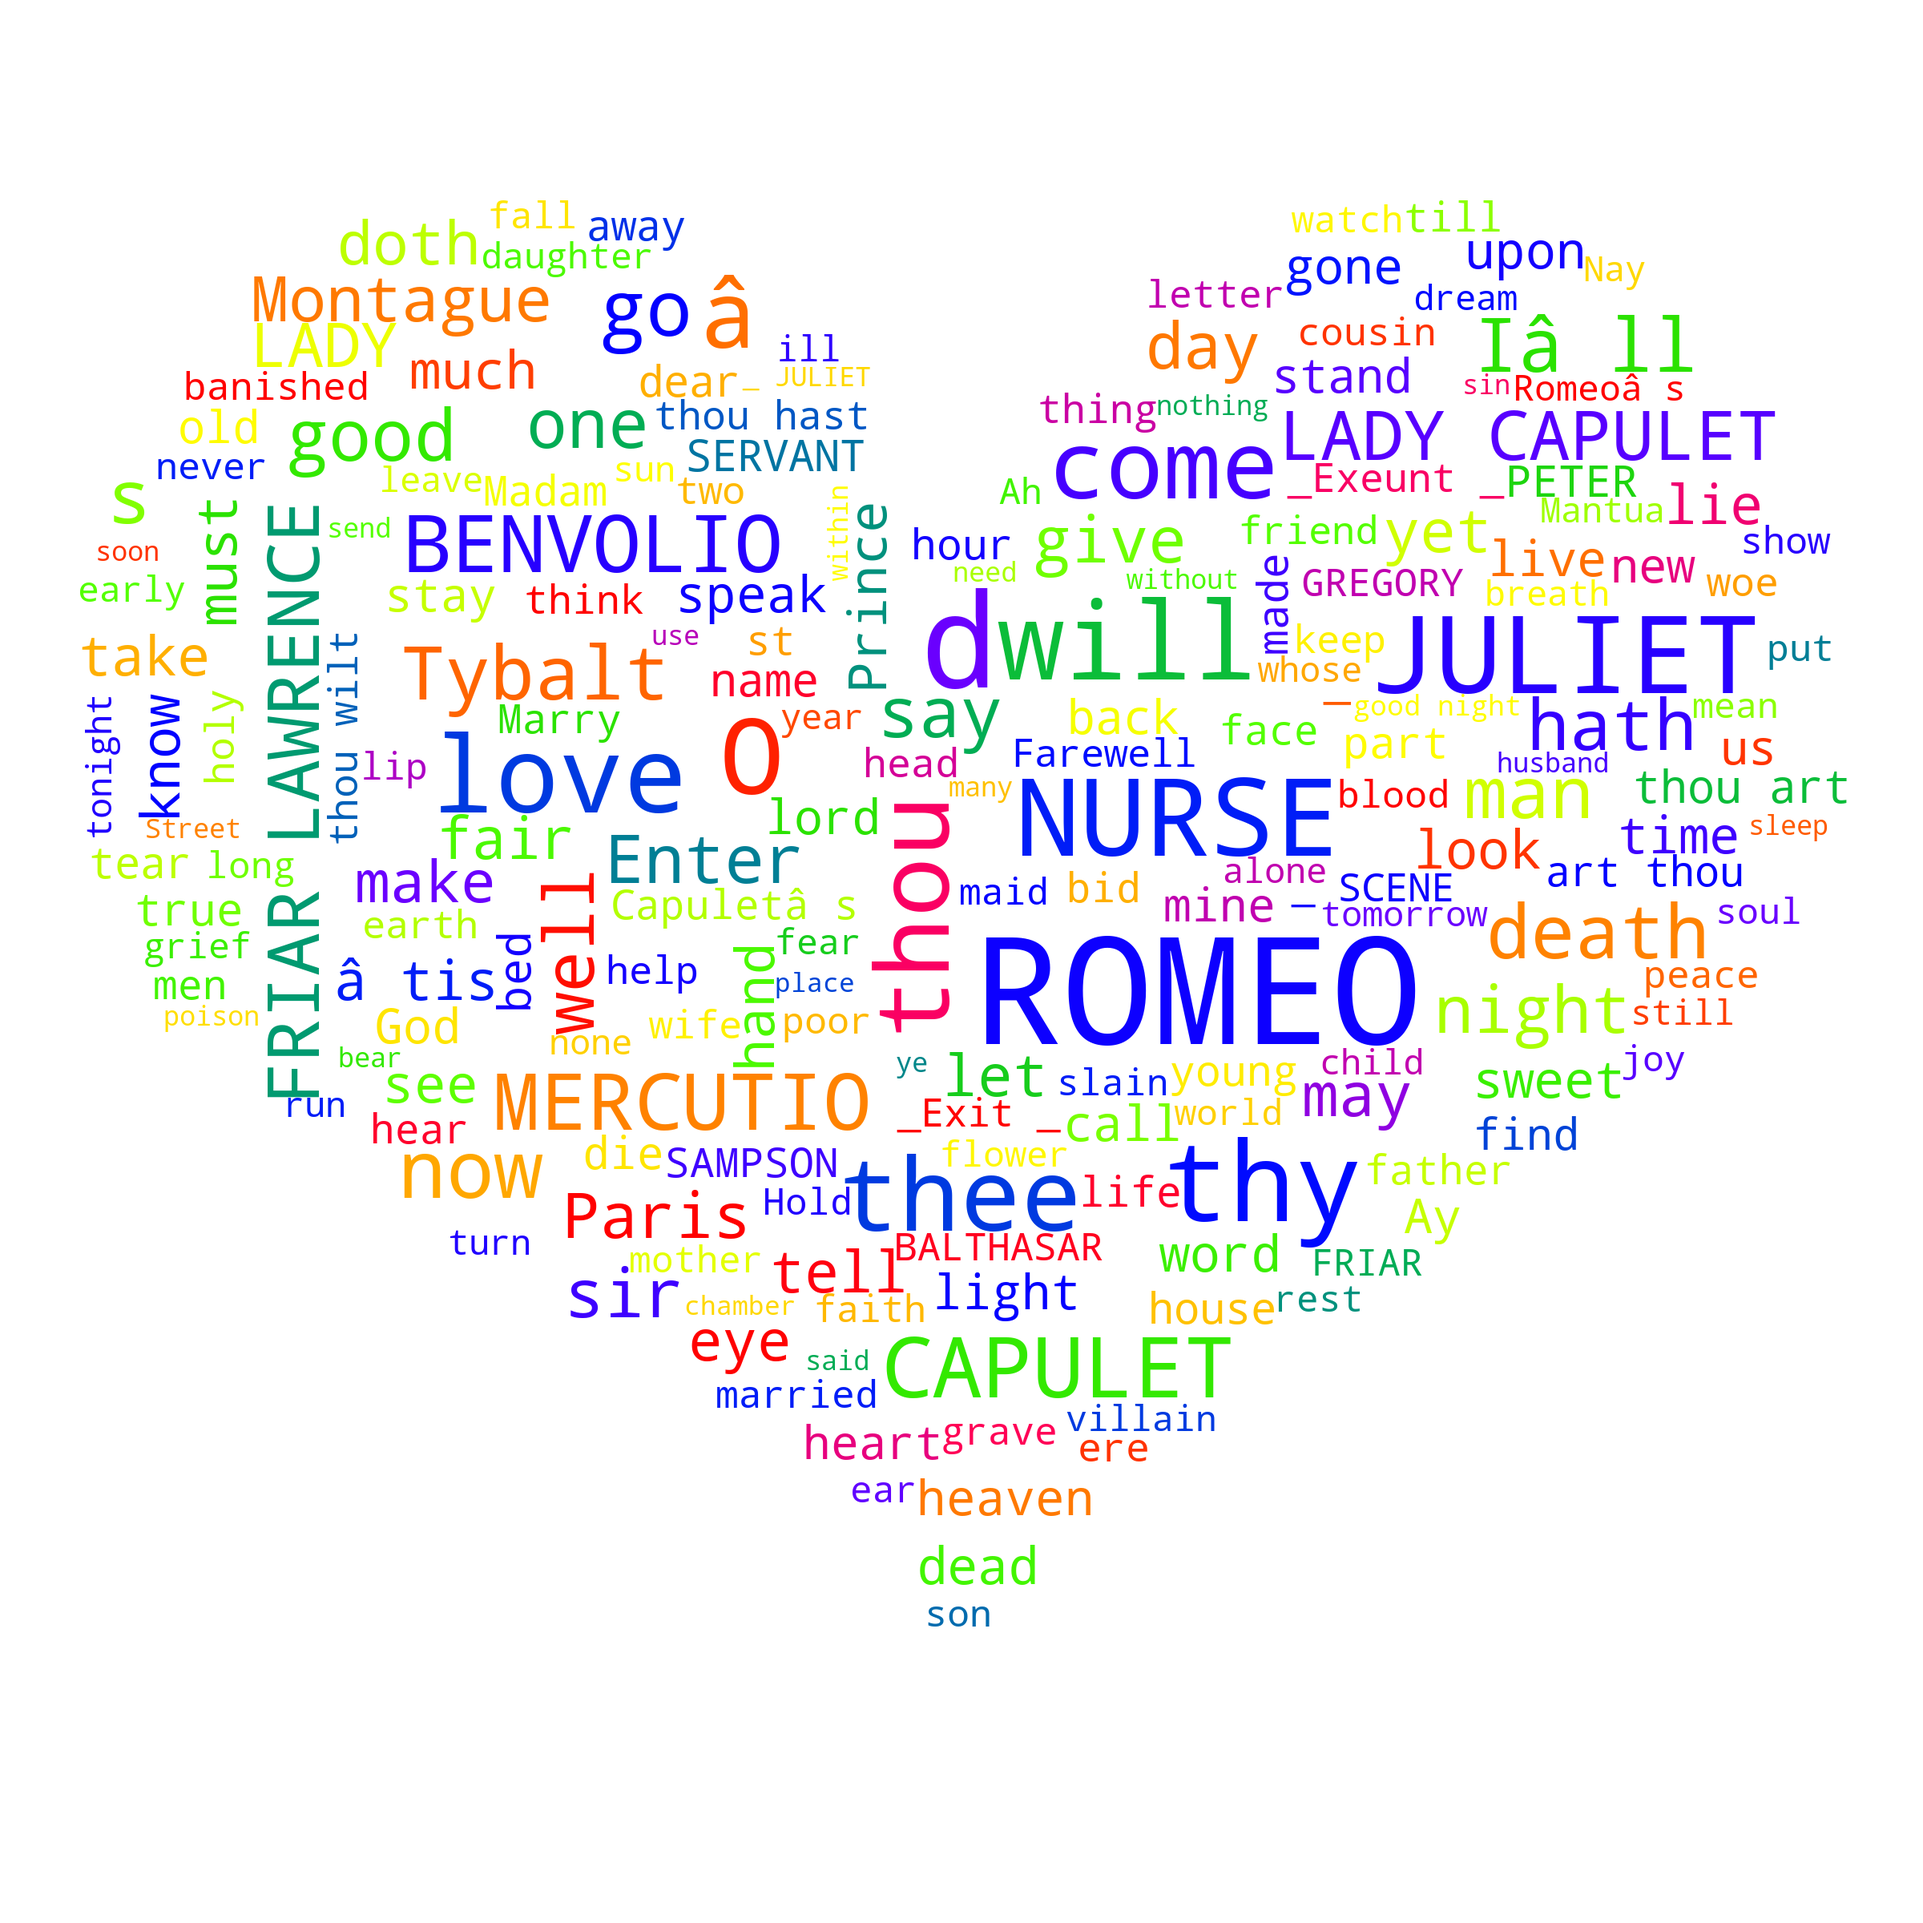
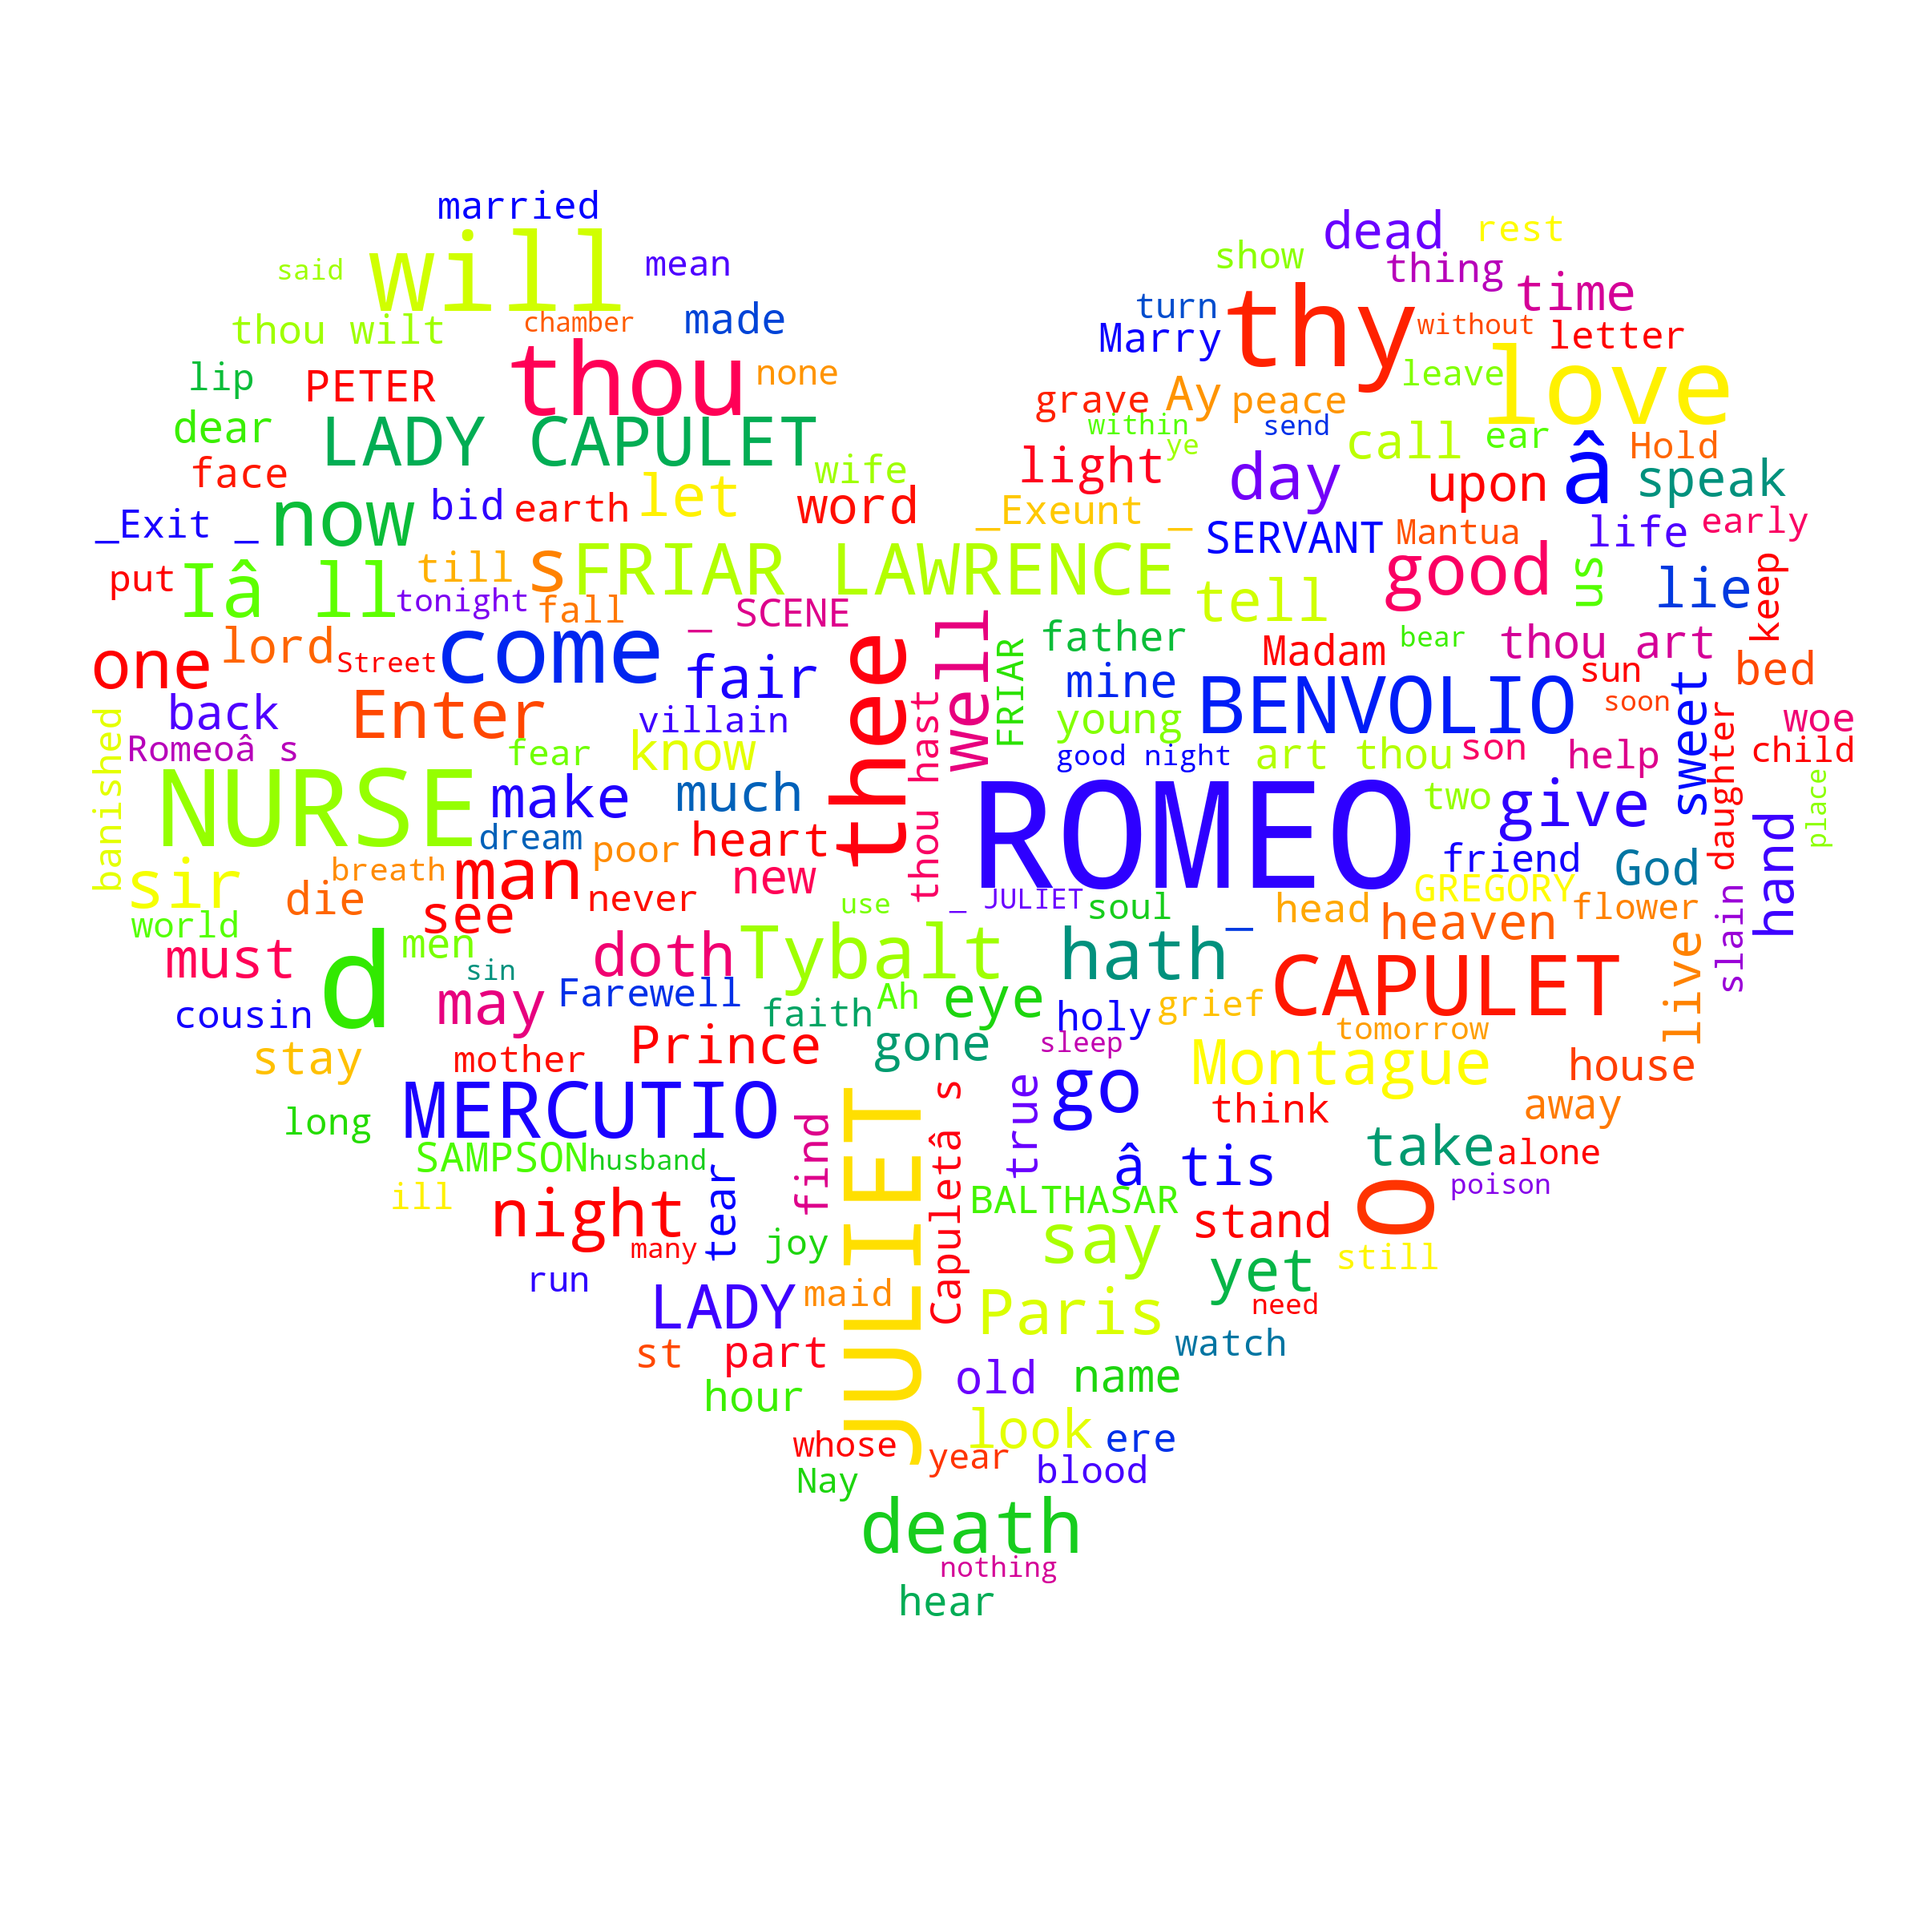
hw

Changed region(s): [[0.0312, 0.0938, 0.9688, 0.8438]]

diff --git a/homework.py b/homework.py
@@ -1,0 +1,32 @@
+from os import write
+from textblob import TextBlob 
+import nltk
+from pathlib import Path 
+
+from nltk.corpus import stopwords
+
+stops = stopwords.words("english")
+
+
+blob = TextBlob(Path("book of John text.txt").read_text())
+more_stops = ["thy","ye","verily","thee","hath","say","thou","art","shall"]
+stops += more_stops
+
+
+items = blob.word_counts.items()
+
+clean = [i for i in items if i[0] not in stops]
+noun = [word for word in clean if word[0] in blob.noun_phrases ]
+from operator import itemgetter 
+sort = sorted(noun, key = itemgetter(1), reverse = True)
+
+top15 = sort[:15]
+print(top15)
+import imageio
+from wordcloud import WordCloud
+import wordcloud
+
+f = open("UpdateJohn.txt","w")
+for i in noun:
+    f.write(i[0])
+f.close()
